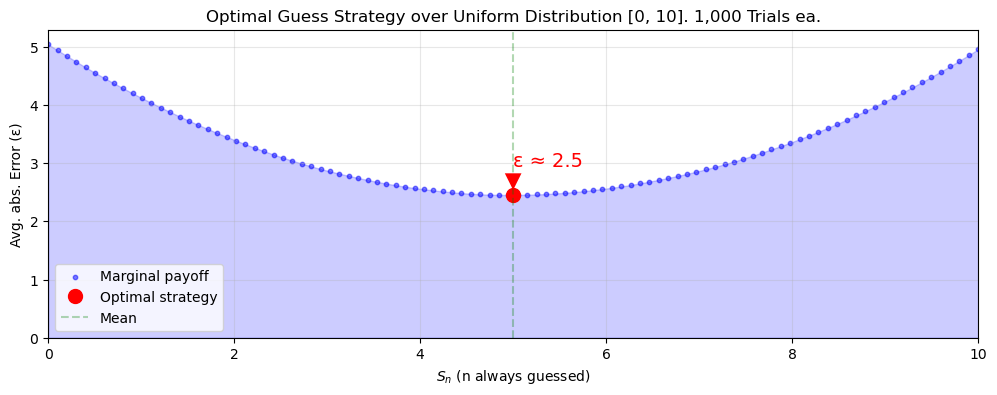
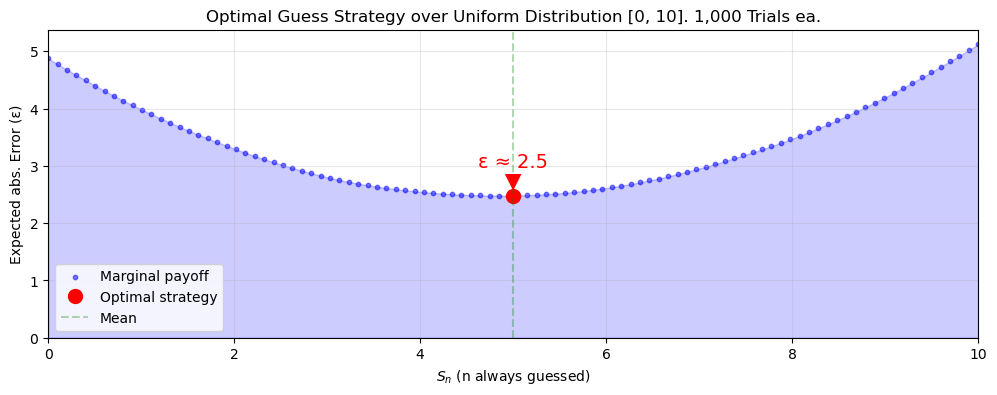
code: Doomsday sim vs. E(G)

diff --git a/doomsday_1.py b/doomsday_1.py
@@ -1,58 +1,136 @@
-import random
-from numpy import histogram, trapz
-import matplotlib.pyplot as plot
-from matplotlib.animation import FuncAnimation as Anim
+import numpy as np
+import matplotlib.pyplot as plt
+from matplotlib.animation import FuncAnimation
+from numpy.polynomial import polynomial as P
+from scipy.optimize import minimize_scalar
 
-w1, w2, trials = 10, 100, 1_000_000
+# Configuration
+W1, W2, trials = 0, 100, 500
 
-def doomsday(trials, getEnd):
-    errors = []
-    for _ in range(trials):
-        beg, end = 1, getEnd()
-        now = random.uniform(beg, end+1)  # [1, end]
-        past = now - beg  # future estimate
-        future = end - now
-        errors.append(future - past) 
-        # Expect equidistance to past & future
-    return errors
+def calcErr(G, W, trials):
+    """Calculate error for guess G and world of size W"""
+    samples = np.random.uniform(0, W, trials)
+    return np.mean(np.abs(G - samples))
 
-def possibles(w1, w2, res):
-    if res < 2: return [w1]
-    step = (w2 - w1) / (res - 1)
-    return [int(w1 + i * step) for i in range(res)]
+def simulate(worlds):
+    """Run simulation for given worlds"""
+    guesses = np.linspace(0, W2, W2)  # Fixed range for all scenarios
+    errors = np.zeros(len(guesses))
+    
+    for i, G in enumerate(guesses):
+        W_errors = []
+        for _ in range(trials):
+            W = np.random.choice(worlds)
+            error = calcErr(G, W, 1)
+            W_errors.append(error)
+        errors[i] = np.mean(W_errors)
 
-steps = [
-    (lambda: w1, "1 world"),
-    (lambda: random.choice([w1, w2]), "2 worlds (dw = 90)"),
-    (lambda: random.choice(possibles(w1, w2, res=4)), "4 worlds (dw = 30)"),
-    (lambda: random.choice(possibles(w1, w2, res=10)), "10 worlds (dw = 10)"),
-    (lambda: random.choice(possibles(w1, w2, res=19)), "19 worlds (dw = 5)"),
-    (lambda: random.randint(w1, w2+1), "91 worlds (dw = 1)")  # [10, 100]
+    # Fit cubic polynomial
+    coeffs = P.polyfit(guesses, errors, deg=3)
+    best_fit = P.polyval(guesses, coeffs)
+
+    # optimal strategy from best fit:
+    i = np.argmin(best_fit)
+    min_G = guesses[i]
+    min_err = best_fit[i]
+    
+    return guesses, errors, best_fit, min_G, min_err
+
+def modelE(G, W1, W2):
+    """Model E(G) over all possible worlds."""
+    if W1 == W2:
+        return np.abs(G - W1)
+    
+    E = np.zeros_like(G)
+    
+    # For G <= W1
+    mask1 = G <= W1
+    G1 = G[mask1]
+    if len(G1) > 0:
+        E[mask1] = ((W1 + W2) / 2 - G1) / (W2 - W1)
+    
+    # For W1 < G <= W2
+    mask2 = (G > W1) & (G <= W2)
+    G2 = G[mask2]
+    if len(G2) > 0:
+        term1 = (1.5 * G2**2 - G2 * (W1 + W2) + 0.25 * (W1**2 + W2**2))
+        term2 = G2**2 * np.log(W2 / G2)
+        E[mask2] = (term1 + term2) / (W2 - W1)
+    
+    # For G > W2
+    mask3 = G > W2
+    G3 = G[mask3]
+    if len(G3) > 0:
+        E[mask3] = (G3 - (W1 + W2) / 2)
+    
+    return np.nan_to_num(E, nan=0.0, posinf=1e6, neginf=-1e6)
+
+def minimizeE(W1, W2):
+    """Solve for G_star and its min_err"""
+    if W1 == W2:
+        return W1, 0
+    
+    result = minimize_scalar(
+        lambda x: modelE(np.array([x]), W1, W2)[0],
+        bounds=(W1, W2),
+        method="bounded"
+    )
+    return result.x, result.fun
+
+# Define scenarios with increasing resolution
+scenarios = [
+    ("2 worlds (dW = 100)", np.linspace(W1, W2, 2).astype(int)),
+    ("4 worlds (dW ≈ 33)", np.linspace(W1, W2, 4).astype(int)),
+    ("8 worlds (dW ≈ 14.3)", np.linspace(W1, W2, 8).astype(int)),
+    ("16 worlds (dW ≈ 6.6)", np.linspace(W1, W2, 16).astype(int)),
+    ("Continuous (dW = 1)", np.linspace(W1, W2, 101).astype(int))
 ]
 
-fig, ax = plot.subplots(figsize=(10, 6))
-plot.suptitle("Correct Guess Distribution as lim(dw→0)", fontsize=14)
+# Set up the figure
+fig, ax = plt.subplots(figsize=(12, 6))
+plt.suptitle("World Size Guess Strategies as lim(dW→0)", fontsize=14)
 
 def animate(frame):
     ax.clear()
-    ax.set_xlim(-w2, w2)
-    ax.set_ylim(0, 0.05)
-    ax.set_xlabel("Error (actual - estimated)")
-    ax.set_ylabel("Density")
-    ax.yaxis.grid(True, linestyle="--", color="lightgray")
-    
-    getEnd, subtitle = steps[frame]
-    errors = doomsday(trials, getEnd)
-    density, bins = histogram(errors, bins=100, range=(-w2, w2), density=True)
-    bins = (bins[:-1] + bins[1:]) / 2  # bin centers
-    
-    ax.plot(bins, density, color="blue")
-    ax.fill_between(bins, density, color="lightblue", alpha=0.5)
+    title, worlds = scenarios[frame]
 
-    area = trapz(density, bins) # integrate
-    ax.legend([f"Area: {area:.2f}"], loc="upper right")
-    ax.set_title(subtitle)
-    return ax
+    # Run simulation:
+    guesses, errors, best_fit, min_G, min_err = simulate(worlds)
 
-anim = Anim(fig, animate, frames=len(steps), interval=1000, repeat=True)
-anim.save(".embed/doomsday-1.gif", writer="pillow", fps=1)
+    ax.plot(guesses, errors, "b.", alpha=0.25, markersize=4)
+    ax.fill_between(guesses, errors, alpha=0.1, color="blue")
+    ax.plot(guesses, best_fit, "k:", linewidth=2, label="Cubic fit")
+    ax.plot(min_G, min_err, "kx", markersize=10, label="Cubic minimum")
+
+    # Use model:
+    guesses = np.linspace(0.1, W2, W2)  # Start from 0.1 instead of 0
+    errors = modelE(guesses, W1, W2)
+    G_star, min_err = minimizeE(W1, W2)
+
+    ax.plot(guesses, errors, "r-", alpha=0.8, linewidth=2, label="E(G) curve")
+    ax.plot(G_star, min_err, "ro", markersize=10, label=f"G* @ {G_star:.2f}")
+
+    ax.annotate(f"ε ≈ {min_err:.2f}", # G_star annotation
+        xy=(G_star, min_err),
+        arrowprops=dict(facecolor="red", edgecolor="none", shrink=0.2, width=2),
+        xytext=(G_star, min_err - 8),
+        color="red", fontsize=12,
+        ha="center")
+
+    ax.set_xlim(0, W2)
+    ax.set_ylim(0, 80)
+
+    ax.set_xticks(worlds) # Ticks represent possible worlds
+    ax.set_xticklabels(["0" if x == W1 else "100" if x == W2 else "" for x in worlds])
+
+    ax.set_title(title)
+    ax.set_xlabel("Strategy ($G$)")
+    ax.set_ylabel("Expected abs. error (ε)")
+    ax.grid(True, alpha=0.3)
+    ax.legend()
+
+# Create animation
+anim = FuncAnimation(fig, animate, frames=len(scenarios), interval=2000, repeat=True)
+
+anim.save(".embed/doomsday-0.gif", writer="pillow", fps=0.5)
+plt.close()

diff --git a/uniform.py b/uniform.py
@@ -23,7 +23,7 @@ plot.axvline(x=5, color="g", linestyle="--", alpha=0.3, label="Mean")
 
 plot.title("Optimal Guess Strategy over Uniform Distribution [0, 10]. 1,000 Trials ea.")
 plot.xlabel("$S_n$ (n always guessed)")
-plot.ylabel("Avg. abs. Error (ε)")
+plot.ylabel("Expected abs. Error (ε)")
 plot.grid(True, alpha=0.3)
 plot.legend()
 
@@ -32,6 +32,7 @@ plot.annotate(f"ε ≈ {optimal_err:.1f}",
             xytext=(5, optimal_err+0.5),
             color="red",
             fontsize=14,
+            ha="center",
             arrowprops=dict(facecolor="red", edgecolor="none", shrink=0.2))
 
 plot.xlim(0, 10)
